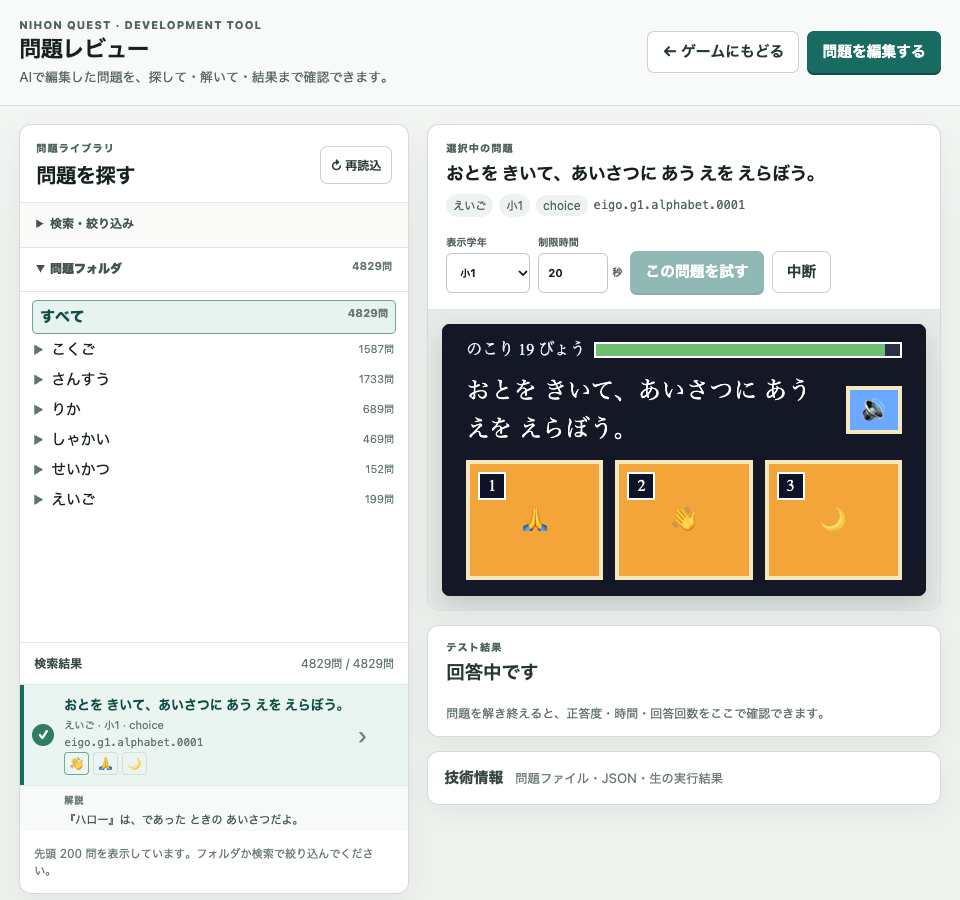
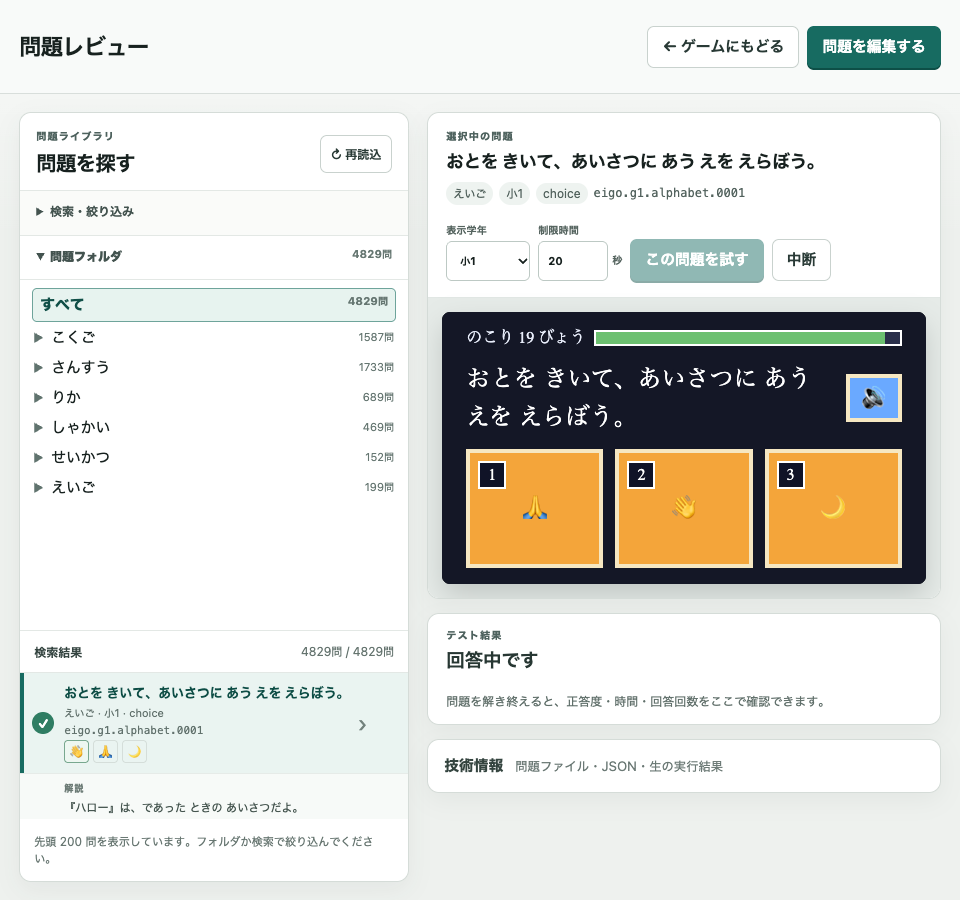
refine: simplify playground header

diff --git a/src/tools/playground.tsx b/src/tools/playground.tsx
@@ -268,9 +268,7 @@ function App() {
     <div class="pg">
       <header class="pg-header">
         <div>
-          <p class="pg-eyebrow">{pgText('eyebrow')}</p>
           <h1>{pgText('title')}</h1>
-          <p class="pg-header-copy">{pgText('headerCopy')}</p>
         </div>
         <nav class="pg-header-actions" aria-label={pgText('pageNavigation')}>
           <a class="pg-link pg-link-secondary" href={`${base}/`}>

diff --git a/src/tools/playground.css b/src/tools/playground.css
@@ -81,7 +81,6 @@ button:disabled {
   line-height: 1.15;
 }
 
-.pg-eyebrow,
 .pg-section-label {
   margin: 0 0 4px;
   color: #4e625e;
@@ -89,12 +88,6 @@ button:disabled {
   font-weight: 750;
   letter-spacing: 0.1em;
   text-transform: uppercase;
-}
-
-.pg-header-copy {
-  margin: 5px 0 0;
-  color: #596663;
-  font-size: 14px;
 }
 
 .pg-header-actions {
